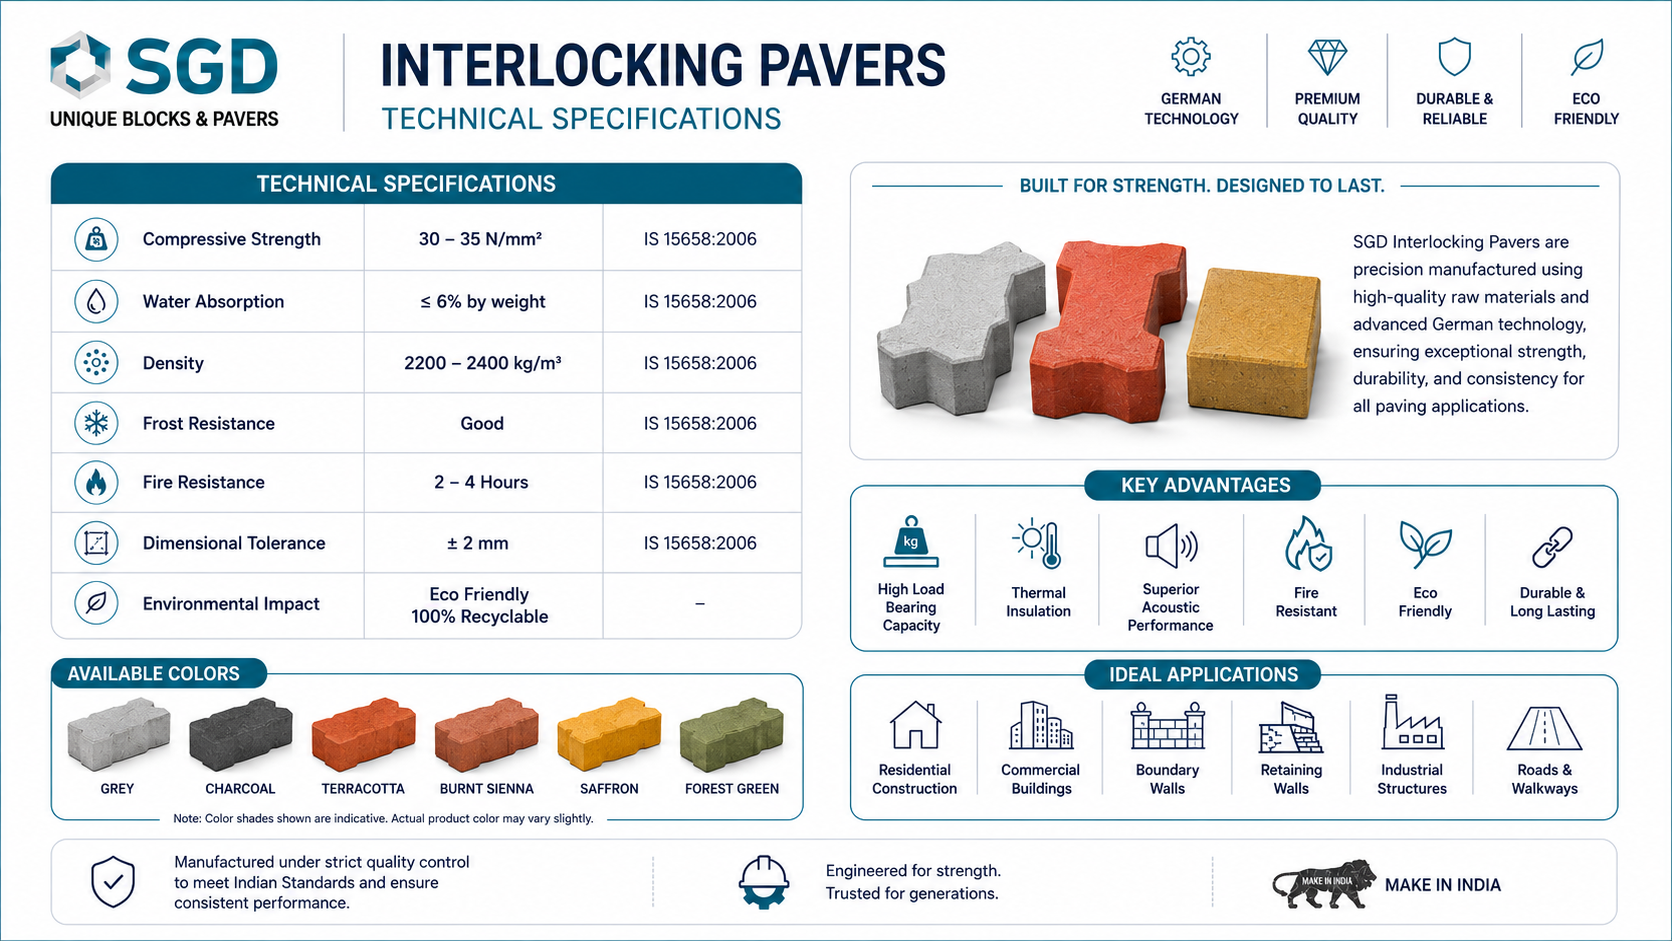
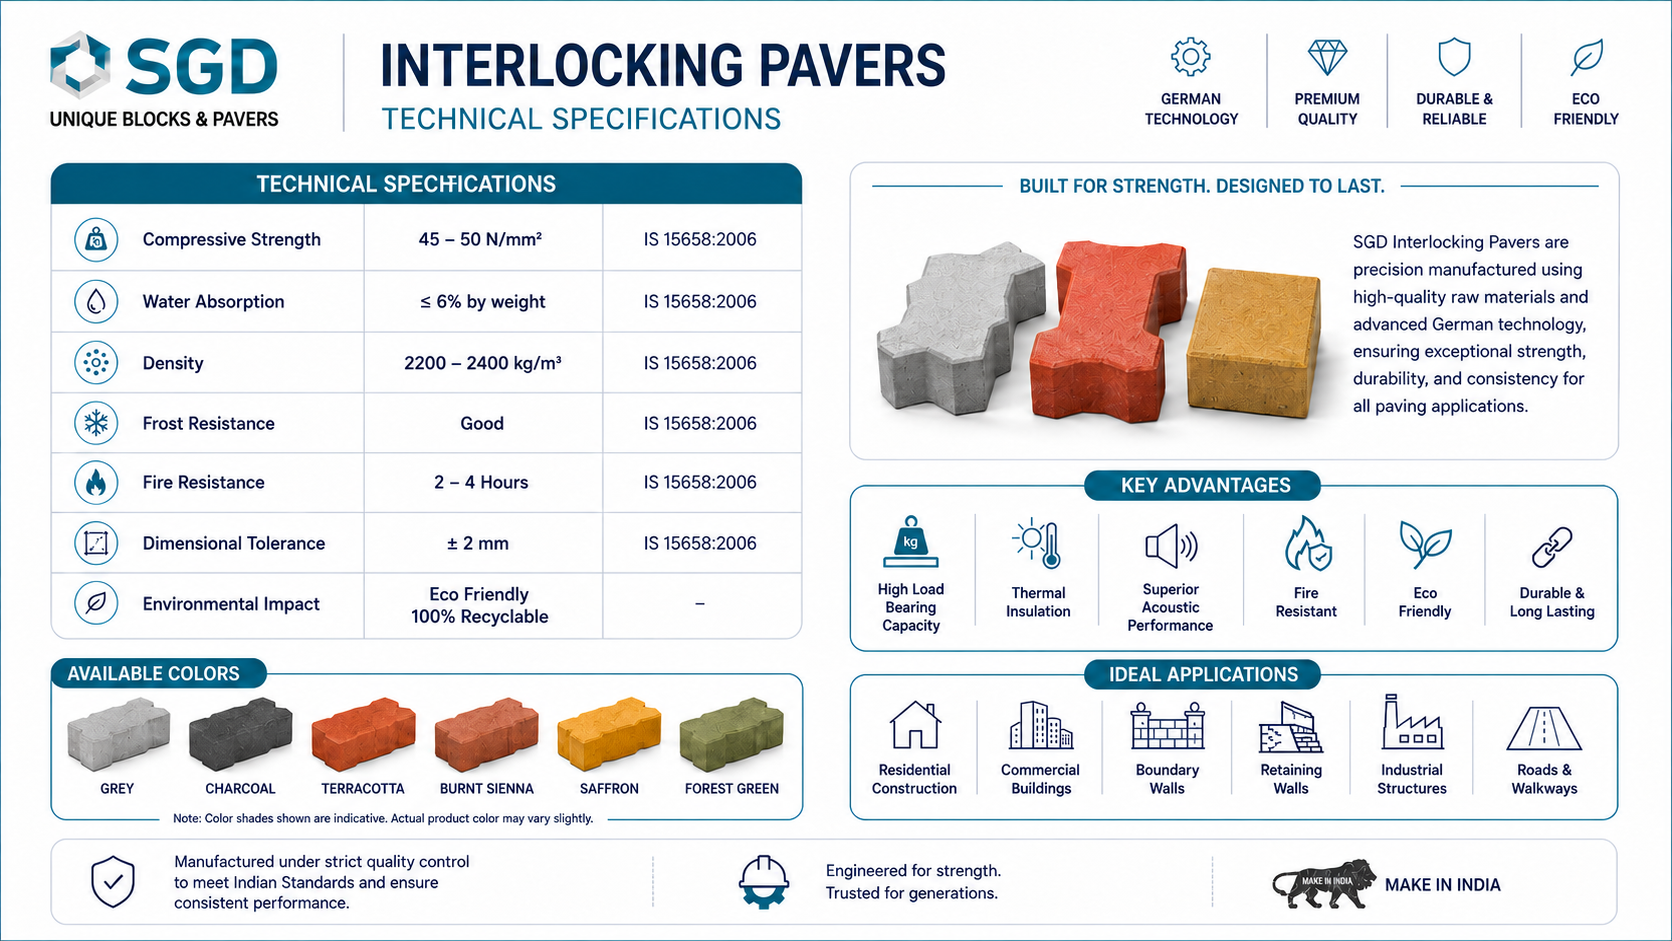
minor changes

diff --git a/product/solid-blocks-detail.html b/product/solid-blocks-detail.html
@@ -1068,7 +1068,7 @@
                                     Available in standard <strong>4", 6", and 8"</strong> sizes, these blocks are
                                     manufactured with state-of-the-art <strong>German technology</strong> to ensure
                                     superior strength, dimensional accuracy, and a fine, smooth finish. With
-                                    <strong>compressive strengths ranging from 8.5  N/mm² to 12.25 N/mm²</strong> and
+                                    <strong>compressive strengths ranging from 8.5 N/mm² to 12.25 N/mm²</strong> and
                                     <strong>fire resistance up to 2 hours</strong>, our solid blocks are the preferred
                                     choice for builders and contractors in Karnataka.
                                     <br><br>
@@ -1094,8 +1094,8 @@
                                     <option value="0" data-partno="SB001" data-length="400" data-height="100"
                                         data-thickness="200" data-weight="-"
                                         data-image="../assets/img/4inch-solid-block.jpeg" data-size="4 Inch"
-                                        data-size-label="4\"" data-strength=" 7.10">
-                                        SB001 — 400×200×100 mm (4") - 8.5  N/mm²
+                                        data-size-label="4\"" data-strength=" 9.65">
+                                        SB001 — 400×200×100 mm (4") - 9.65 N/mm²
                                     </option>
                                     <option value="1" data-partno="SB002" data-length="400" data-height="150"
                                         data-thickness="200" data-weight="-"
@@ -1106,8 +1106,8 @@
                                     <option value="2" data-partno="SB003" data-length="400" data-height="200"
                                         data-thickness="200" data-weight="-"
                                         data-image="../assets/img/8inch-solid-block.jpeg" data-size="8 Inch"
-                                        data-size-label="8\"" data-strength=" 12.25">
-                                        SB003 — 400×200×200 mm (8") - 12.25 N/mm²
+                                        data-size-label="8\"" data-strength=" 9.25">
+                                        SB003 — 400×200×200 mm (8") - 9.25 N/mm²
                                     </option>
                                 </select>
 
@@ -1153,7 +1153,7 @@
                                                 <td id="size-height">100</td>
                                                 <td style="color: #9ca3af;">x</td>
                                                 <td id="size-thickness">200</td>
-                                                <td id="size-strength" style="font-weight: 700; color: #22c55e;">7.10
+                                                <td id="size-strength" style="font-weight: 700; color: #22c55e;">9.65
                                                     N/mm²</td>
                                             </tr>
                                         </tbody>
@@ -1248,7 +1248,7 @@
                                 </li>
                                 <li class="d-flex gap-3 mb-3">
                                     <i class="bi bi-check-circle-fill text-success mt-1" style="font-size: 1.1rem;"></i>
-                                    <span><strong id="spec-strength">Compressive Strength:</strong></span>
+                                    <span><strong id="spec-strength">Compressive Strength:</strong> 9.65 N/mm²</span>
                                 </li>
                                 <li class="d-flex gap-3 mb-3">
                                     <i class="bi bi-check-circle-fill text-success mt-1" style="font-size: 1.1rem;"></i>
@@ -1457,11 +1457,10 @@
                                 </h3>
                                 <div id="faq2" class="accordion-collapse collapse" data-bs-parent="#faqAccordion">
                                     <div class="accordion-body">
-                                        Our concrete solid blocks have <strong>compressive strengths ranging from 7.10
-                                            N/mm² to 12.25 N/mm²</strong>:
-                                        <br>• <strong>4" blocks:</strong> 8.5  N/mm²
+                                        Our concrete solid blocks have <strong>compressive strengths:</strong>
+                                        <br>• <strong>4" blocks:</strong> 9.65 N/mm²
                                         <br>• <strong>6" blocks:</strong> 10.15 N/mm²
-                                        <br>• <strong>8" blocks:</strong> 12.25 N/mm²
+                                        <br>• <strong>8" blocks:</strong> 9.25 N/mm²
                                         <br><br>Each batch is tested for quality assurance, making them suitable for
                                         load-bearing walls, foundations, and structural applications.
                                     </div>
@@ -1523,7 +1522,7 @@
                                 </h3>
                                 <div id="faq6" class="accordion-collapse collapse" data-bs-parent="#faqAccordion">
                                     <div class="accordion-body">
-                                        Solid blocks offer <strong>superior compressive strength (7.10 to 12.25
+                                        Solid blocks offer <strong>superior compressive strength (9.65 to 10.15
                                             N/mm²)</strong>,
                                         better fire resistance (up to 2 hours), excellent sound insulation (up to 45
                                         dB), and are more eco-friendly than traditional red bricks. They are also more
@@ -1590,9 +1589,9 @@
                                 <div class="col-12">
                                     <select class="form-control" name="product-interest">
                                         <option value="">Select Product of Interest</option>
-                                        <option value="solid-blocks-4inch">4 Inch Solid Blocks (8.5  N/mm²)</option>
+                                        <option value="solid-blocks-4inch">4 Inch Solid Blocks (9.65 N/mm²)</option>
                                         <option value="solid-blocks-6inch">6 Inch Solid Blocks (10.15 N/mm²)</option>
-                                        <option value="solid-blocks-8inch">8 Inch Solid Blocks (12.25 N/mm²)</option>
+                                        <option value="solid-blocks-8inch">8 Inch Solid Blocks (9.25 N/mm²)</option>
                                         <option value="pavers">Interlocking Paver Blocks</option>
                                         <option value="grass-pavers">Grass Pavers</option>
                                         <option value="kerb-stones">Kerb Stones</option>
@@ -1762,30 +1761,30 @@
                 length: '400',
                 height: '100',
                 thickness: '200',
-                strength: '8.5  N/mm²',
+                strength: '9.65 N/mm²',
                 image: '../assets/img/4inch-solid-block.jpeg',
                 title: '4 Inch Concrete Solid Blocks',
                 heading: '4 Inch Concrete Solid Blocks in Mysore - 400×200×100 mm',
                 breadcrumb: '4 Inch Solid Blocks - Premium Construction Blocks in Mysore',
                 inlineBreadcrumb: '4 Inch Solid Blocks',
                 badge: 'Best 4 Inch Solid Blocks in Mysore',
-                description: 'Precision-engineered <strong>4 inch concrete solid blocks</strong> measuring <strong>400×200×100 mm</strong> for strong, durable wall construction in <strong>Mysore and across Karnataka</strong>. These 4" solid blocks are a versatile choice for a wide range of construction projects, offering exceptional load-bearing capacity and structural integrity. Their dense composition makes them ideal for <strong>load-bearing walls, partition walls, foundations, and boundary fencing</strong>.<br><br>Manufactured with state-of-the-art <strong>German technology</strong>, our 4 inch blocks ensure superior strength, dimensional accuracy, and a fine, smooth finish. With a <strong>compressive strength of 8.5  N/mm²</strong> and <strong>fire resistance up to 2 hours</strong>, these blocks are the preferred choice for builders and contractors in Karnataka.<br><br><strong>Perfect for:</strong> Load-bearing walls, partition walls, foundation work, retaining walls, boundary walls, fencing, residential and commercial construction projects in Mysore, Bengaluru, Mandya, Hassan, and all of Karnataka.<br><br><a href="../services.html" class="text-decoration-none" style="color:#f4a900; font-weight:600;">Explore our complete product range</a> or <a href="../projects.html" class="text-decoration-none" style="color:#f4a900; font-weight:600;">visit our factory</a> to see how these blocks are manufactured for superior strength. <strong>Built to Last.</strong>',
+                description: 'Precision-engineered <strong>4 inch concrete solid blocks</strong> measuring <strong>400×200×100 mm</strong> for strong, durable wall construction in <strong>Mysore and across Karnataka</strong>. These 4" solid blocks are a versatile choice for a wide range of construction projects, offering exceptional load-bearing capacity and structural integrity. Their dense composition makes them ideal for <strong>load-bearing walls, partition walls, foundations, and boundary fencing</strong>.<br><br>Manufactured with state-of-the-art <strong>German technology</strong>, our 4 inch blocks ensure superior strength, dimensional accuracy, and a fine, smooth finish. With a <strong>compressive strength of 9.65 N/mm²</strong> and <strong>fire resistance up to 2 hours</strong>, these blocks are the preferred choice for builders and contractors in Karnataka.<br><br><strong>Perfect for:</strong> Load-bearing walls, partition walls, foundation work, retaining walls, boundary walls, fencing, residential and commercial construction projects in Mysore, Bengaluru, Mandya, Hassan, and all of Karnataka.<br><br><a href="../services.html" class="text-decoration-none" style="color:#f4a900; font-weight:600;">Explore our complete product range</a> or <a href="../projects.html" class="text-decoration-none" style="color:#f4a900; font-weight:600;">visit our factory</a> to see how these blocks are manufactured for superior strength. <strong>Built to Last.</strong>',
                 useCasesTitle: 'Use Cases for 4 Inch Solid Blocks in Mysore',
                 specsTitle: 'Key Specifications - 4 Inch Solid Blocks',
                 benefitsTitle: 'Key Benefits of 4 Inch Solid Blocks',
                 faqTitle: 'Frequently Asked Questions About 4 Inch Solid Blocks in Mysore',
                 faqSubtitle: 'Common questions about our 4 inch solid blocks and construction materials in Karnataka',
-                metaTitle: '4 Inch Concrete Solid Blocks in Mysore | 400×200×100 mm | 8.5  N/mm² | SGD Unique Blocks',
-                metaDescription: 'Premium 4 inch concrete solid blocks (400×200×100 mm) in Mysore by SGD Unique Blocks. High compressive strength 8.5  N/mm², German technology, free delivery in Mysore. Call [phone redacted] for best quality 4 solid blocks in Karnataka.',
+                metaTitle: '4 Inch Concrete Solid Blocks in Mysore | 400×200×100 mm | 9.65 N/mm² | SGD Unique Blocks',
+                metaDescription: 'Premium 4 inch concrete solid blocks (400×200×100 mm) in Mysore by SGD Unique Blocks. High compressive strength 9.65 N/mm², German technology, free delivery in Mysore. Call [phone redacted] for best quality 4 solid blocks in Karnataka.',
                 metaKeywords: '4 inch solid blocks Mysore, 4 concrete blocks Mysuru, 400x200x100 solid blocks, 4 construction blocks Karnataka, 4 building blocks Mysore, 4 load bearing blocks, 4 wall blocks, best 4 solid blocks in Mysore, SGD Unique Blocks and Pavers',
                 canonical: 'https://sgduniqueblocksandpavers.in/product/solid-blocks-detail.html?size=4inch',
-                ogTitle: '4 Inch Concrete Solid Blocks in Mysore | 400×200×100 mm | 8.5  N/mm² | SGD Unique Blocks',
-                ogDescription: 'Premium 4 inch concrete solid blocks (400×200×100 mm) in Mysore by SGD Unique Blocks. High compressive strength 8.5  N/mm², German technology, free delivery. Call [phone redacted]',
+                ogTitle: '4 Inch Concrete Solid Blocks in Mysore | 400×200×100 mm | 9.65 N/mm² | SGD Unique Blocks',
+                ogDescription: 'Premium 4 inch concrete solid blocks (400×200×100 mm) in Mysore by SGD Unique Blocks. High compressive strength 9.65 N/mm², German technology, free delivery. Call [phone redacted]',
                 ogUrl: 'https://sgduniqueblocksandpavers.in/product/solid-blocks-detail.html?size=4inch',
                 ogImage: 'https://sgduniqueblocksandpavers.in/assets/img/4inch-solid-block.jpeg',
                 ogImageAlt: '4 inch concrete solid blocks (400×200×100 mm) by SGD Unique Blocks & Pavers in Mysore, Karnataka',
-                twitterTitle: '4 Inch Concrete Solid Blocks in Mysore | 400×200×100 mm | 8.5  N/mm² | SGD Unique Blocks',
-                twitterDescription: 'Premium 4 inch concrete solid blocks in Mysore. 4₀₀×2₀₀×1₀₀ mm size. German technology, high compressive strength 7.1₀ N/mm². Call +91 855₀₀ ₀₄₅₅₄',
+                twitterTitle: '4 Inch Concrete Solid Blocks in Mysore | 400×200×100 mm | 9.65 N/mm² | SGD Unique Blocks',
+                twitterDescription: 'Premium 4 inch concrete solid blocks in Mysore. 4₀₀×2₀₀×1₀₀ mm size. German technology, high compressive strength 9.65 N/mm². Call +91 855₀₀ ₀₄₅₅₄',
                 twitterImage: 'https://sgduniqueblocksandpavers.in/assets/img/4inch-solid-block.jpeg',
                 selectOption: 0
             },
@@ -1832,30 +1831,30 @@
                 length: '400',
                 height: '200',
                 thickness: '200',
-                strength: '12.25 N/mm²',
+                strength: '9.25 N/mm²',
                 image: '../assets/img/8inch-solid-block.jpeg',
                 title: '8 Inch Concrete Solid Blocks',
                 heading: '8 Inch Concrete Solid Blocks in Mysore - 400×200×200 mm',
                 breadcrumb: '8 Inch Solid Blocks - Premium Construction Blocks in Mysore',
                 inlineBreadcrumb: '8 Inch Solid Blocks',
                 badge: 'Best 8 Inch Solid Blocks in Mysore',
-                description: 'Precision-engineered <strong>8 inch concrete solid blocks</strong> measuring <strong>400×200×200 mm</strong> for strong, durable wall construction in <strong>Mysore and across Karnataka</strong>. These 8" solid blocks offer maximum load-bearing capacity and structural integrity, making them ideal for <strong>heavy-load bearing walls, foundations, and structural applications</strong>.<br><br>Manufactured with state-of-the-art <strong>German technology</strong>, our 8 inch blocks ensure superior strength, dimensional accuracy, and a fine, smooth finish. With a <strong>compressive strength of 12.25 N/mm²</strong> and <strong>fire resistance up to 2 hours</strong>, these blocks are the preferred choice for builders and contractors in Karnataka.<br><br><strong>Perfect for:</strong> Heavy-load bearing walls, foundation work, retaining walls, commercial and residential construction, and infrastructure projects in Mysore, Bengaluru, Mandya, Hassan, and all of Karnataka.<br><br><a href="../services.html" class="text-decoration-none" style="color:#f4a900; font-weight:600;">Explore our complete product range</a> or <a href="../projects.html" class="text-decoration-none" style="color:#f4a900; font-weight:600;">visit our factory</a> to see how these blocks are manufactured for superior strength. <strong>Built to Last.</strong>',
+                description: 'Precision-engineered <strong>8 inch concrete solid blocks</strong> measuring <strong>400×200×200 mm</strong> for strong, durable wall construction in <strong>Mysore and across Karnataka</strong>. These 8" solid blocks offer maximum load-bearing capacity and structural integrity, making them ideal for <strong>heavy-load bearing walls, foundations, and structural applications</strong>.<br><br>Manufactured with state-of-the-art <strong>German technology</strong>, our 8 inch blocks ensure superior strength, dimensional accuracy, and a fine, smooth finish. With a <strong>compressive strength of 9.25 N/mm²</strong> and <strong>fire resistance up to 2 hours</strong>, these blocks are the preferred choice for builders and contractors in Karnataka.<br><br><strong>Perfect for:</strong> Heavy-load bearing walls, foundation work, retaining walls, commercial and residential construction, and infrastructure projects in Mysore, Bengaluru, Mandya, Hassan, and all of Karnataka.<br><br><a href="../services.html" class="text-decoration-none" style="color:#f4a900; font-weight:600;">Explore our complete product range</a> or <a href="../projects.html" class="text-decoration-none" style="color:#f4a900; font-weight:600;">visit our factory</a> to see how these blocks are manufactured for superior strength. <strong>Built to Last.</strong>',
                 useCasesTitle: 'Use Cases for 8 Inch Solid Blocks in Mysore',
                 specsTitle: 'Key Specifications - 8 Inch Solid Blocks',
                 benefitsTitle: 'Key Benefits of 8 Inch Solid Blocks',
                 faqTitle: 'Frequently Asked Questions About 8 Inch Solid Blocks in Mysore',
                 faqSubtitle: 'Common questions about our 8 inch solid blocks and construction materials in Karnataka',
-                metaTitle: '8 Inch Concrete Solid Blocks in Mysore | 400×200×200 mm | 12.25 N/mm² | SGD Unique Blocks',
-                metaDescription: 'Premium 8 inch concrete solid blocks (400×200×200 mm) in Mysore by SGD Unique Blocks. High compressive strength 12.25 N/mm², German technology, free delivery in Mysore. Call [phone redacted] for best quality 8 solid blocks in Karnataka.',
+                metaTitle: '8 Inch Concrete Solid Blocks in Mysore | 400×200×200 mm | 9.25 N/mm² | SGD Unique Blocks',
+                metaDescription: 'Premium 8 inch concrete solid blocks (400×200×200 mm) in Mysore by SGD Unique Blocks. High compressive strength 9.25 N/mm², German technology, free delivery in Mysore. Call [phone redacted] for best quality 8 solid blocks in Karnataka.',
                 metaKeywords: '8 inch solid blocks Mysore, 8 concrete blocks Mysuru, 400x200x200 solid blocks, 8 construction blocks Karnataka, 8 building blocks Mysore, 8 load bearing blocks, 8 wall blocks, best 8 solid blocks in Mysore, SGD Unique Blocks and Pavers',
                 canonical: 'https://sgduniqueblocksandpavers.in/product/solid-blocks-detail.html?size=8inch',
-                ogTitle: '8 Inch Concrete Solid Blocks in Mysore | 400×200×200 mm | 12.25 N/mm² | SGD Unique Blocks',
-                ogDescription: 'Premium 8 inch concrete solid blocks (400×200×200 mm) in Mysore by SGD Unique Blocks. High compressive strength 12.25 N/mm², German technology, free delivery. Call [phone redacted]',
+                ogTitle: '8 Inch Concrete Solid Blocks in Mysore | 400×200×200 mm | 9.25 N/mm² | SGD Unique Blocks',
+                ogDescription: 'Premium 8 inch concrete solid blocks (400×200×200 mm) in Mysore by SGD Unique Blocks. High compressive strength 9.25 N/mm², German technology, free delivery. Call [phone redacted]',
                 ogUrl: 'https://sgduniqueblocksandpavers.in/product/solid-blocks-detail.html?size=8inch',
                 ogImage: 'https://sgduniqueblocksandpavers.in/assets/img/8inch-solid-block.jpeg',
                 ogImageAlt: '8 inch concrete solid blocks (400×200×200 mm) by SGD Unique Blocks & Pavers in Mysore, Karnataka',
-                twitterTitle: '8 Inch Concrete Solid Blocks in Mysore | 400×200×200 mm | 12.25 N/mm² | SGD Unique Blocks',
-                twitterDescription: 'Premium 8 inch concrete solid blocks in Mysore. 400×200×200 mm size. German technology, high compressive strength 12.25 N/mm². Call [phone redacted]',
+                twitterTitle: '8 Inch Concrete Solid Blocks in Mysore | 400×200×200 mm | 9.25 N/mm² | SGD Unique Blocks',
+                twitterDescription: 'Premium 8 inch concrete solid blocks in Mysore. 400×200×200 mm size. German technology, high compressive strength 9.25 N/mm². Call [phone redacted]',
                 twitterImage: 'https://sgduniqueblocksandpavers.in/assets/img/8inch-solid-block.jpeg',
                 selectOption: 2
             }